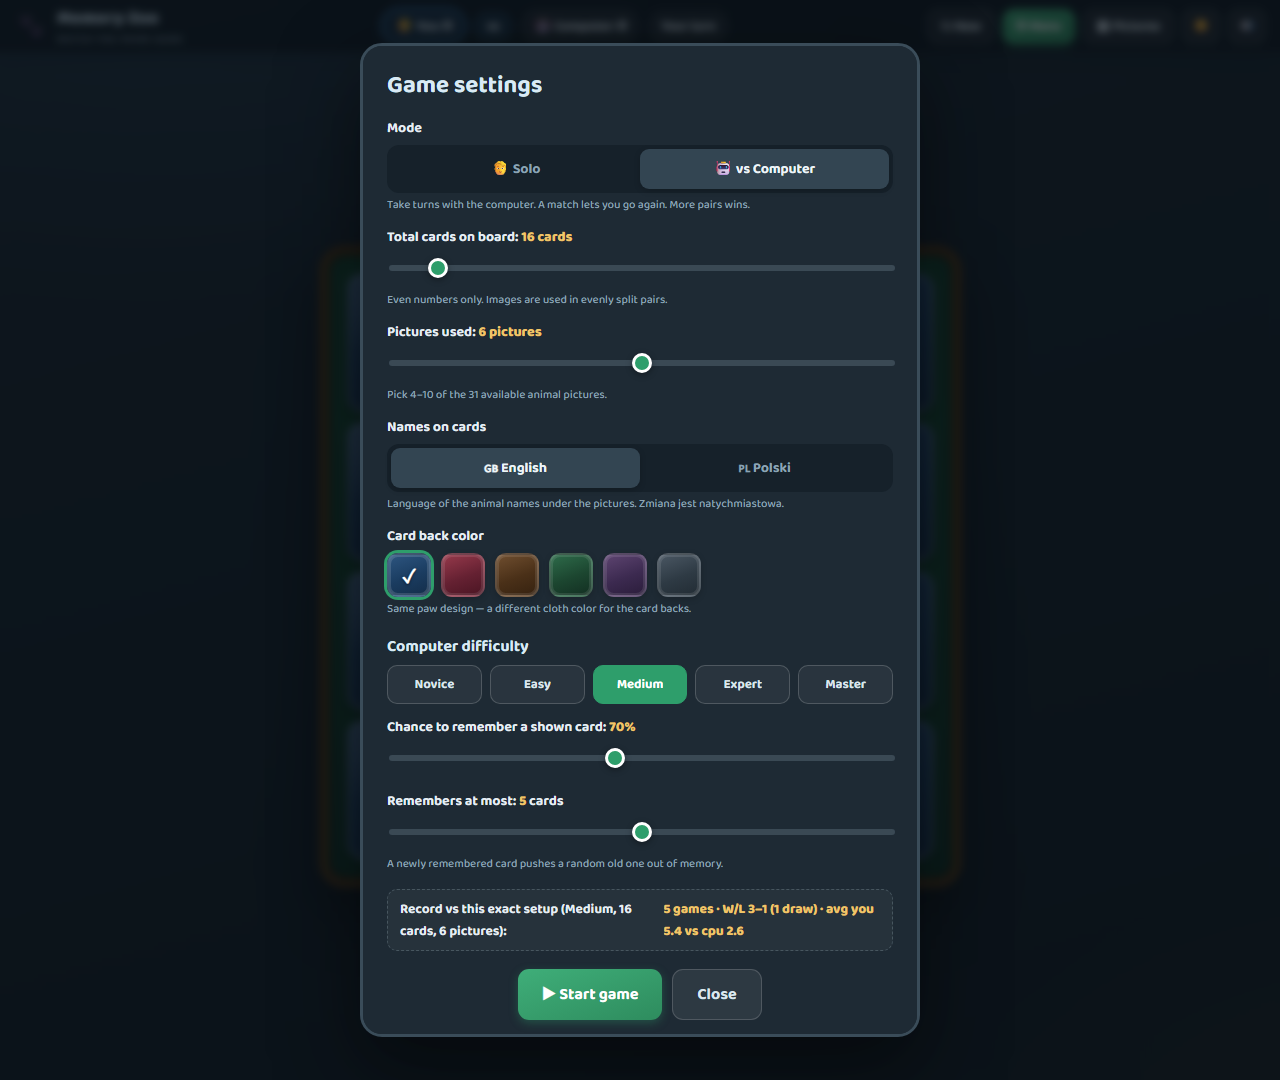
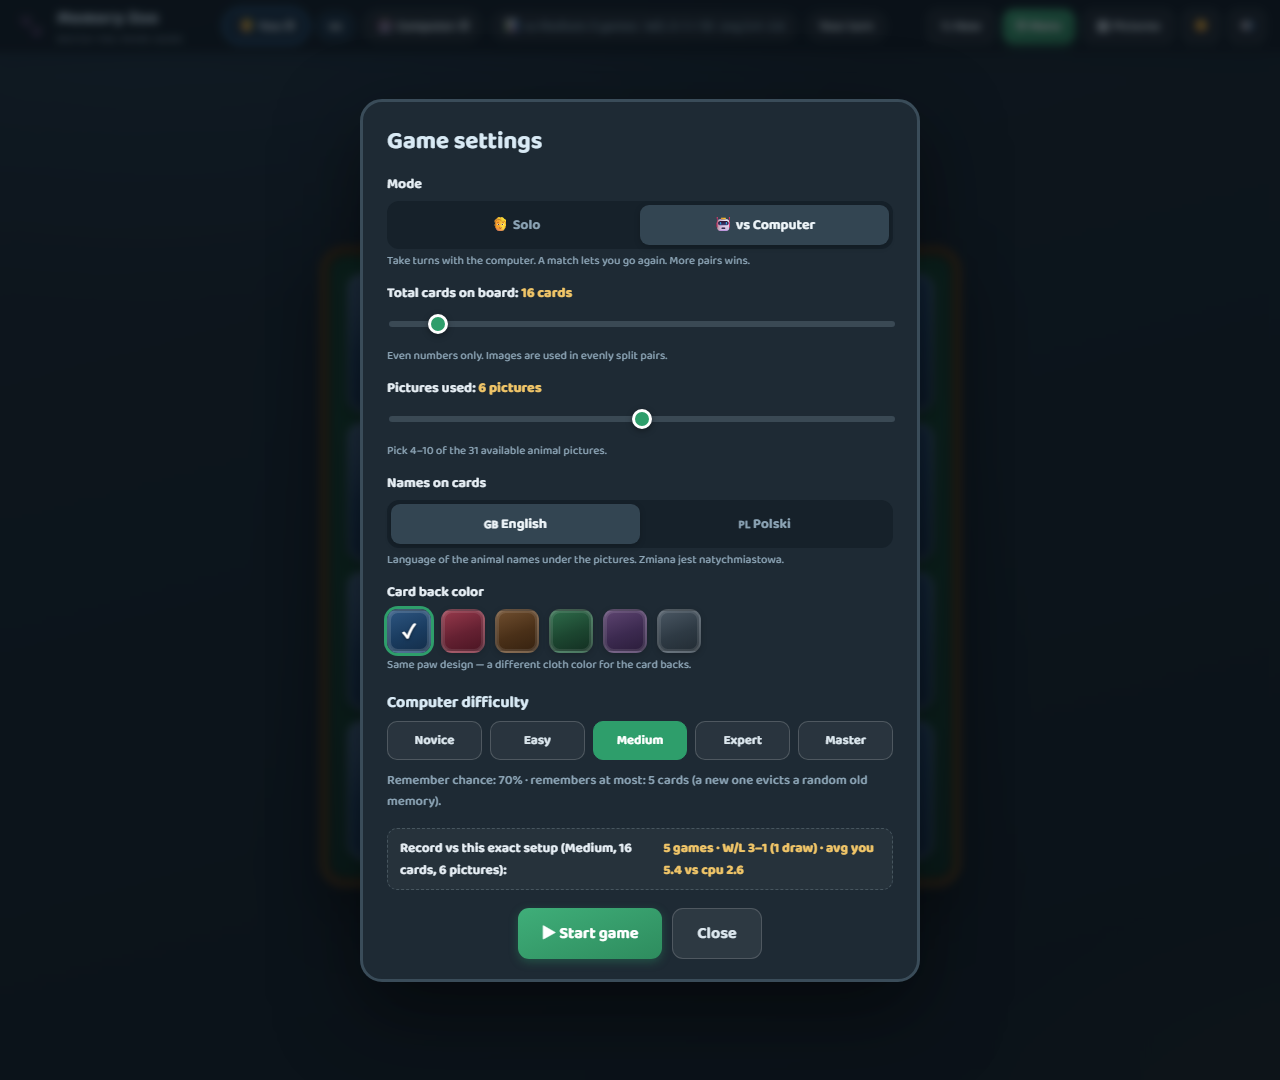
vs record chip in the top bar during play; difficulty is preset-only: sliders removed, values shown as info; stats never tracked for non-standard settings, old custom slider saves migrate to matching preset/Medium

Changed region(s): [[0.2812, 0.0, 0.7188, 0.9778], [0.625, 0.6111, 0.6875, 0.6417], [0.1875, 0.0, 0.25, 0.0306]]

diff --git a/game.js b/game.js
@@ -54,8 +54,16 @@ function activeSprites() { return SPRITES.filter((sp) => S.blocked.indexOf(sp.id
 const MIN_TOTAL = 10, MAX_TOTAL = 62;       // even numbers only
 const MIN_IMAGES = 4, MAX_IMAGES = 10;      // up to 10 of the 31 available animals per game
 const MIN_ACTIVE = 10;                      // pictures may be crossed out, but at least this many must stay
-const MIN_P = 50, MAX_P = 95;              // computer remember-chance, %
-const MIN_CAP = 3, MAX_CAP = 7;            // computer memory size, cards
+// Computer difficulty is EXACTLY these five presets (records are tracked per preset;
+// the menu shows their values as information only, nothing to fine-tune):
+const PRESETS = [
+  { d: 'Novice', p: 50, cap: 3 },
+  { d: 'Easy', p: 60, cap: 4 },
+  { d: 'Medium', p: 70, cap: 5 },
+  { d: 'Expert', p: 80, cap: 6 },
+  { d: 'Master', p: 90, cap: 7 },
+];
+const DEFAULT_DIFF = 'Medium';
 const FLIP_MS = 560, SHOW_MS = 800, PAIR_WAIT = FLIP_MS + 140;
 
 const LS_SETTINGS = 'memoryzoo.settings.v1';
@@ -63,7 +71,7 @@ const LS_SCORES   = 'memoryzoo.scores.v2';   // solo best per "total x images"; 
 
 const BACKS = ['blue', 'burgundy', 'brown', 'forest', 'plum', 'slate'];
 const LANGS = ['en', 'pl'];
-const DEFAULTS = { mode: 'solo', total: 16, images: 6, p: 70, cap: 5, mute: false, theme: 'dark', backColor: 'blue', lang: 'en', blocked: [] };
+const DEFAULTS = { mode: 'solo', total: 16, images: 6, diff: DEFAULT_DIFF, mute: false, theme: 'dark', backColor: 'blue', lang: 'en', blocked: [] };
 
 // ------------------------------------------------ helpers ---
 const $ = (s) => document.querySelector(s);
@@ -158,8 +166,13 @@ function sanitizeSettings(raw) {
     mode: raw.mode === 'vs' ? 'vs' : 'solo',
     total: clamp(Math.round(raw.total ?? DEFAULTS.total), MIN_TOTAL, MAX_TOTAL),
     images: clamp(Math.round(raw.images ?? DEFAULTS.images), MIN_IMAGES, MAX_IMAGES),
-    p: clamp(Math.round(raw.p ?? DEFAULTS.p), MIN_P, MAX_P),
-    cap: clamp(Math.round(raw.cap ?? DEFAULTS.cap), MIN_CAP, MAX_CAP),
+    diff: (() => {
+      // only the five standard difficulties exist; old saves with free slider
+      // values migrate to the preset they match, otherwise to Medium
+      let pr = PRESETS.find((x) => x.d === raw.diff);
+      if (!pr) pr = PRESETS.find((x) => x.p === Math.round(raw.p) && x.cap === Math.round(raw.cap));
+      return (pr || PRESETS.find((x) => x.d === DEFAULT_DIFF)).d;
+    })(),
     mute: !!raw.mute,
     theme: raw.theme === 'light' ? 'light' : 'dark',
     backColor: ['blue', 'burgundy', 'brown', 'forest', 'plum', 'slate'].indexOf(raw.backColor) >= 0
@@ -169,6 +182,8 @@ function sanitizeSettings(raw) {
       ? [...new Set(raw.blocked.filter((id) => SPRITES.some((sp) => sp.id === id)))].slice(0, SPRITES.length - MIN_ACTIVE)
       : [],
   };
+  const pr = PRESETS.find((x) => x.d === s.diff);
+  s.p = pr.p; s.cap = pr.cap;   // AI parameters always come from the preset itself
   if (s.total % 2) s.total -= 1;
   s.total = Math.max(MIN_TOTAL, s.total);
   s.images = Math.min(s.images, Math.floor(s.total / 2), SPRITES.length - s.blocked.length, MAX_IMAGES);
@@ -481,11 +496,16 @@ function updateHUD() {
       '</div>';
   } else {
     const yourTurn = G.turn === 'player' && !G.over;
+    // live record for this exact difficulty × board × pictures (only once games were played)
+    const st = scores.vs[S.diff + 'x' + G.total + 'x' + G.images];
     statusEl.innerHTML =
       '<div class="chips">' +
         '<span class="chip me' + (yourTurn ? ' active' : '') + '">🧑 You: <b>' + G.taken.player + '</b></span>' +
         '<span class="chip turn">vs</span>' +
         '<span class="chip cpu' + (G.turn === 'cpu' && !G.over ? ' active' : '') + '">🤖 Computer: <b>' + G.taken.cpu + '</b></span>' +
+        (st ? '<span class="chip rec" title="Record vs ' + S.diff + ', ' + G.total + ' cards × ' + G.images + ' pictures">📊 vs ' + S.diff +
+              ': ' + st.g + ' game' + (st.g === 1 ? '' : 's') + ' · W/L ' + st.w + '–' + st.l +
+              (st.d ? ' + ' + st.d + 'D' : '') + ' · avg ' + (st.ps / st.g).toFixed(1) + '–' + (st.cs / st.g).toFixed(1) + '</span>' : '') +
         '<span class="chip">' + (G.over ? 'Game over' : (yourTurn ? 'Your turn' : 'Computer thinking…')) + '</span>' +
       '</div>';
   }
@@ -503,6 +523,16 @@ function toast(msg) {
 async function finish() {
   if (G.over) return;
   G.over = true;
+
+  // record first, so the "Game over" HUD already shows the updated chip
+  let st = null;
+  if (G.mode !== 'solo') {
+    const vk = difficultyKey() + 'x' + G.total + 'x' + G.images;
+    st = scores.vs[vk] || (scores.vs[vk] = { g: 0, w: 0, l: 0, d: 0, ps: 0, cs: 0 });
+    st.g++; st.ps += G.taken.player; st.cs += G.taken.cpu;
+    if (G.taken.player > G.taken.cpu) st.w++; else if (G.taken.cpu > G.taken.player) st.l++; else st.d++;
+    saveScores();
+  }
   updateHUD();
   await sleep(450);
 
@@ -528,13 +558,8 @@ async function finish() {
     else if (c > p) { title = 'The computer wins 🤖'; sfx.lose(); }
     else { title = "It's a draw 🤝"; sfx.tie(); }
 
-    // running record for THIS difficulty × board × pictures combination
+    // the running record was already updated above; repeat it in the popup
     const diff = difficultyKey();
-    const vk = diff + 'x' + G.total + 'x' + G.images;
-    const st = scores.vs[vk] || (scores.vs[vk] = { g: 0, w: 0, l: 0, d: 0, ps: 0, cs: 0 });
-    st.g++; st.ps += p; st.cs += c;
-    if (p > c) st.w++; else if (c > p) st.l++; else st.d++;
-    saveScores();
 
     $('#resTitle').textContent = title;
     $('#resBody').innerHTML =
@@ -576,10 +601,7 @@ function syncMenu() {
   $('#valTotal').textContent = S.total + ' cards';
   $('#valImages').textContent = S.images + ' pictures';
   $('#imgHint').textContent = 'Pick 4–10 of the ' + (SPRITES.length - S.blocked.length) + ' available animal pictures.';
-  $('#rngP').value = String(S.p);
-  $('#rngCap').value = String(S.cap);
-  $('#valP').textContent = S.p + '%';
-  $('#valCap').textContent = S.cap;
+  updateDiffInfo();
   markPreset();
   setModeButtons();
   renderBests();
@@ -588,8 +610,15 @@ function syncMenu() {
 
 function markPreset() {
   document.querySelectorAll('#presetBtns button').forEach((b) => {
-    b.classList.toggle('on', +b.dataset.p === S.p && +b.dataset.c === S.cap);
+    b.classList.toggle('on', b.dataset.d === S.diff);
   });
+}
+
+// the difficulty sliders are gone: the preset values are shown as information only
+function updateDiffInfo() {
+  const pr = PRESETS.find((x) => x.d === S.diff) || PRESETS[2];
+  $('#diffInfo').textContent = 'Remember chance: ' + pr.p + '% · remembers at most: ' + pr.cap +
+    ' cards (a new one evicts a random old memory).';
 }
 
 function renderBests() {
@@ -602,15 +631,9 @@ function renderBests() {
 }
 
 // ------------------------------ vs Computer records per difficulty × setup ---
-// the difficulty name is the preset the sliders currently match; free slider
-// combinations count together as "Custom"
-function difficultyKey() {
-  let key = 'Custom';
-  document.querySelectorAll('#presetBtns button').forEach((b) => {
-    if (+b.dataset.p === S.p && +b.dataset.c === S.cap) key = b.dataset.d;
-  });
-  return key;
-}
+// difficulty is always one of the five standard presets — records exist only
+// for those, never for made-up slider combinations
+function difficultyKey() { return S.diff; }
 function fmtVsRecord(st) {
   const avg = (n) => (n / st.g).toFixed(1);
   return st.g + ' game' + (st.g === 1 ? '' : 's') +
@@ -739,20 +762,12 @@ $('#rngImages').addEventListener('input', (e) => {
 
 $('#presetBtns').addEventListener('click', (e) => {
   const b = e.target.closest('button');
-  if (!b) return;
-  S.p = clamp(+b.dataset.p, MIN_P, MAX_P);
-  S.cap = clamp(+b.dataset.c, MIN_CAP, MAX_CAP);
-  saveSettings(); syncMenu(); sfx.ui();
-});
-
-$('#rngP').addEventListener('input', (e) => {
-  S.p = clamp(parseInt(e.target.value, 10) || MIN_P, MIN_P, MAX_P);
-  saveSettings(); $('#valP').textContent = S.p + '%'; markPreset();
-});
-
-$('#rngCap').addEventListener('input', (e) => {
-  S.cap = clamp(parseInt(e.target.value, 10) || MIN_CAP, MIN_CAP, MAX_CAP);
-  saveSettings(); $('#valCap').textContent = S.cap; markPreset();
+  const pr = b && PRESETS.find((x) => x.d === b.dataset.d);
+  if (!pr) return;
+  S.diff = pr.d; S.p = pr.p; S.cap = pr.cap;
+  saveSettings(); syncMenu();
+  if (G && !G.over) updateHUD();   // switching mid-game moves the record chip to the new difficulty
+  sfx.ui();
 });
 
 $('#btnStart').addEventListener('click', () => {

diff --git a/test_headless.js b/test_headless.js
@@ -30,7 +30,7 @@ class El {
 
 const byId = {};
 const IDS = ['board', 'boardWrap', 'status', 'toast', 'menu', 'results', 'rngTotal', 'rngImages', 'imgHint',
-  'rngP', 'rngCap', 'valTotal', 'valImages', 'valP', 'valCap', 'diffBox', 'bestBox', 'vsBox', 'modeHint',
+  'rngP', 'rngCap', 'valTotal', 'valImages', 'diffBox', 'bestBox', 'vsBox', 'modeHint', 'diffInfo',
   'picOverlay', 'picGrid', 'picCount', 'btnPictures', 'btnPicAll', 'btnPicClose',
   'resTitle', 'resBody', 'modeSeg', 'presetBtns', 'backBtns', 'langSeg', 'btnMenu', 'btnCloseMenu', 'btnStart',
   'btnRestart', 'btnPlayAgain', 'btnResSettings', 'btnSound', 'btnTheme'];
@@ -233,6 +233,22 @@ async function playOne(label) {
   byId.btnPicClose.listeners['click'][0]();
   if (!byId.picOverlay.classList.contains('hidden')) { console.error('FAIL: Close did not hide picker'); process.exit(1); }
   console.log('show all + close OK');
+
+  if (!(settings.mode === 'solo')) {
+    // the top-bar record chip is shown during play for this exact setup
+    if (!/W\/L/.test(byId.status._html || '')) { console.error('FAIL: no record chip in HUD during vs play'); process.exit(1); }
+    // difficulty is preset-only: switching to Easy moves p/cap, the info line,
+    // the preset mark and the HUD chip; back to Medium the stats reappear
+    byId.presetBtns.listeners['click'][0]({ target: { closest: () => presetBtns[1] } });
+    const stEasy = JSON.parse(store['memoryzoo.settings.v1']);
+    if (stEasy.diff !== 'Easy' || stEasy.p !== 60 || stEasy.cap !== 4) { console.error('FAIL: Easy preset not persisted', JSON.stringify(stEasy)); process.exit(1); }
+    if (!presetBtns[1].classList.contains('on') || presetBtns[2].classList.contains('on')) { console.error('FAIL: preset mark not moved'); process.exit(1); }
+    if (!String(byId.diffInfo.textContent).includes('60%')) { console.error('FAIL: diff info line not updated'); process.exit(1); }
+    if (/W\/L/.test(byId.status._html || '')) { console.error('FAIL: chip for other difficulty still shown'); process.exit(1); }
+    byId.presetBtns.listeners['click'][0]({ target: { closest: () => presetBtns[2] } });
+    if (!/W\/L/.test(byId.status._html || '')) { console.error('FAIL: chip missing after switching back to Medium'); process.exit(1); }
+    console.log('preset switch: Easy (60%/4) marked + info updated + chip follows, back to Medium OK');
+  }
 
   const isSolo = (settings.mode || 'solo') === 'solo';
   const raw = store['memoryzoo.scores.v2'];

diff --git a/style.css b/style.css
@@ -152,6 +152,7 @@ body{
 .chip.me.active{ border-color: #3f86c2; box-shadow: 0 0 0 3px rgba(63,134,194,.30); background: var(--chip-me-bg); }
 .chip.cpu.active{ border-color: #9a6ad0; box-shadow: 0 0 0 3px rgba(154,106,208,.30); background: var(--chip-cpu-bg); }
 .chip.best{ color: var(--chip-best-ink); background: var(--chip-best-bg); }
+.chip.rec{ border-style: dashed; color: var(--ink-dim); font-weight: 600; }
 
 .actions{ display: flex; gap: 8px; }
 
@@ -447,6 +448,7 @@ input[type=range]::-moz-range-thumb{
 }
 .presets button:hover{ background: var(--preset-hover); }
 .presets button.on{ background: #2e9e6b; color: #fff; border-color: #2e9e6b; }
+.diffinfo{ font-size: 13px; font-weight: 600; color: var(--ink-dim); margin: 4px 0 10px; }
 
 /* card-back color picker */
 .swatches{ display: flex; gap: 10px; flex-wrap: wrap; }

diff --git a/index.html b/index.html
@@ -96,15 +96,7 @@
         <button type="button" data-p="80" data-c="6" data-d="Expert">Expert</button>
         <button type="button" data-p="90" data-c="7" data-d="Master">Master</button>
       </div>
-      <div class="field">
-        <label for="rngP">Chance to remember a shown card: <b id="valP"></b></label>
-        <input type="range" id="rngP" min="50" max="95" step="5"/>
-      </div>
-      <div class="field">
-        <label for="rngCap">Remembers at most: <b id="valCap"></b> cards</label>
-        <input type="range" id="rngCap" min="3" max="7" step="1"/>
-        <p class="hint">A newly remembered card pushes a random old one out of memory.</p>
-      </div>
+      <p class="diffinfo" id="diffInfo"></p>
     </div>
 
     <div id="bestBox" class="bests"></div>

diff --git a/README.md b/README.md
@@ -27,13 +27,17 @@ bar switches between the dark and light palettes (choice is remembered).
 ### 🤖 vs Computer
 - Take turns. A match means the same player goes again; a miss turns both
   cards back over and passes the turn.
-- The computer's difficulty (all adjustable, plus five presets
-  **Novice 50 %/3 · Easy 60 %/4 · Medium 70 %/5 · Expert 80 %/6 ·
-  Master 90 %/7**):
-  - **Remember chance:** 50–95 % per shown card. It tries to remember the
+- The computer's difficulty is exactly five presets
+  (**Novice 50 %/3 · Easy 60 %/4 · Medium 70 %/5 · Expert 80 %/6 ·
+  Master 90 %/7**) — there is nothing to fine-tune; the menu only *shows*
+  what the selected preset does:
+  - **Remember chance:** per shown card, the computer tries to remember the
     location of every card revealed during play (its own *and* the player's).
-  - **Memory size:** 3–7 cards. A newly remembered card evicts a random old
+  - **Memory size:** in cards. A newly remembered card evicts a random old
     memory entry.
+  Switching difficulty mid-game takes effect immediately — the AI and the
+  record chip follow the new preset. (Old saves from the removed sliders
+  migrate to the preset they matched, otherwise to Medium.)
 - Computer pick strategy (as specified):
   1. if its memory contains a matching pair → take those two cards;
   2. else flip one card it does *not* remember; if it remembers that picture
@@ -41,12 +45,14 @@ bar switches between the dark and light palettes (choice is remembered).
   3. else flip the second card at random.
 - Whoever took more pairs off the board wins (draw is possible).
 - **Per-setup records:** every finished vs game is tracked for the exact
-  **difficulty preset × total cards × pictures** combination (slider values
-  matching no preset count together as "Custom"). The menu shows, for the
-  currently selected setup only: **games played, W/L record (draws noted)
-  and the average pair-score you vs the computer had across those games**.
-  The end-of-game popup repeats the same totals, updated with the game just
-  played. ![vs record](qa_vsrecord.png)
+  **difficulty preset × total cards × pictures** combination (records exist
+  only for the five standard difficulties — there are no custom slider
+  settings anymore). The record shows **games played, W/L (draws noted) and
+  the average pair-score you vs the computer**. It is displayed twice: as a
+  dashed chip in the top bar **during play** (for the exact setup being
+  played, once at least one game finished) and as a row in the menu for the
+  currently selected setup; the end-of-game popup repeats the totals updated
+  with the game just played. ![vs record](qa_vsrecord.png) ![vs top bar](qa_vsbar.png)
 
 ## Settings
 - **Total cards:** even numbers, 10–62.
